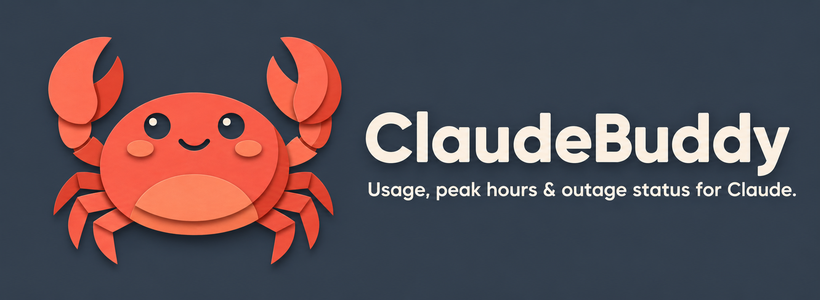
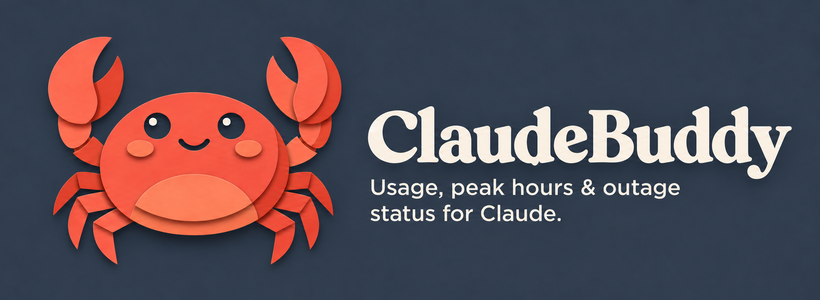
Refine promo typography with warm editorial lettering and refresh handoff

Changed region(s): [[0.4268, 0.36, 0.9756, 0.75], [0.1829, 0.3, 0.2439, 0.33]]

diff --git a/docs/release/policy-audit.md b/docs/release/policy-audit.md
@@ -26,11 +26,11 @@ Removed unused web_accessible_resources entry for timezone JSON: only the popup 
 
 [Single purpose](https://developer.chrome.com/docs/webstore/program-policies/quality-guidelines): quota and service availability for Claude form one narrow decision-support purpose. [Branding/IP](https://developer.chrome.com/docs/webstore/program-policies/impersonation-and-intellectual-property): independent product name and explicit non-affiliation, no official/endorsed claims, rankings or fake browser warnings. The user-selected coral paper-cut crab on dark slate is exported at true 16/48/128 sizes for extension management and Store branding. Its external generation provenance is not recorded. The toolbar uses the original circular usage indicators. No Anthropic logo is used in prepared assets.
 
-No bundled third-party library, font or imported third-party image/code notice was identified in runtime sources. The mascot was generated with the built-in imagegen tool; its source and prompts are recorded in assets/branding, outside the runtime ZIP. PeakClaude inspiration credit remains in README; no copied PeakClaude code was identified in this local review. Attribution does not establish ownership. No repository-wide LICENSE/COPYING exists; actual ownership and the publisher's licence choice remain owner decisions in 06, not fabricated permission to relicense. There is no applicable third-party runtime notice to add based on this local evidence.
+No bundled third-party library, font or code notice was identified in runtime sources. The current mascot is user-supplied; its external generation provenance is not recorded. Matching promotional images were generated with built-in imagegen, with exact prompts and sources recorded in assets/branding outside the runtime ZIP. PeakClaude inspiration credit remains in README; no copied PeakClaude code was identified in this local review. Attribution does not establish ownership. No repository-wide LICENSE/COPYING exists; actual ownership and the publisher's licence choice remain owner decisions in 06, not fabricated permission to relicense. No additional runtime notice was identified from the available local evidence.
 
 ## Listing and package
 
-[Listing fields](https://developer.chrome.com/docs/webstore/cws-dashboard-listing) and [image requirements](https://developer.chrome.com/docs/webstore/images): prepared title/manifest description, detailed description, English/productivity recommendation, true 128px PNG icon, and three 1280 × 800 PNG screenshots. Required icon and screenshot assets supplied; optional promotional tiles/video intentionally omitted. Screenshots show extracted production UI with safe samples and no lab controls. [Reviewer instructions](https://developer.chrome.com/docs/webstore/cws-dashboard-test-instructions) explain access/plan/event limits; no credentials invented.
+[Listing fields](https://developer.chrome.com/docs/webstore/cws-dashboard-listing) and [image requirements](https://developer.chrome.com/docs/webstore/images): prepared title/manifest description, detailed description, English/productivity recommendation, true 128px PNG icon, and three 1280 × 800 PNG screenshots. Required icon and screenshot assets are supplied. Matching optional marquee/tile and project promo exports were added on 26 October; no video was created. Screenshots show extracted production UI with safe samples and no lab controls. [Reviewer instructions](https://developer.chrome.com/docs/webstore/cws-dashboard-test-instructions) explain access/plan/event limits; no credentials invented.
 
 [Package preparation](https://developer.chrome.com/docs/webstore/prepare): explicit 30-file runtime allowlist, manifest root, no tests/labs/tickets/secrets/screenshots/Git content. Source/ZIP/extraction equality and hashes are recorded. Final publication is not implied.
 

diff --git a/.scratch/account-overview/05-release/HANDOFF.md b/.scratch/account-overview/05-release/HANDOFF.md
@@ -23,4 +23,10 @@ If QA or an owner decision changes runtime contents, return to 05: fix sources, 
 
 User approved the name and a friendly, warm, crisp crab with cute eyes. See [branding brief/proof](../../claudebuddy-branding/brief.md) and [source/prompt notes](../../../assets/branding/README.md). Current screenshots and active ZIP are ClaudeBuddy. The runtime allowlist has 30 files, including 12 packaged quota-color circle PNGs. The user subsequently clarified that the crab belongs only on the extension management page and Web Store listing. Toolbar indicators, including the manifest default, are plain circles. The rebrand reran all 64 Node tests and the 26 encrypted-popup checks; unaffected layout evidence from ticket 05 remains reused. Internal storage/key/bridge identifiers remain intentionally compatible.
 
-Branding [Standards/Spec review](../../claudebuddy-branding/review.md) covers the initial rebrand. The toolbar correction is documented [separately](../../claudebuddy-branding/toolbar-correction.md), with native-size proof and current validation. Current runtime source is d9f9066; SHA256SUMS/package.json identify its ZIP. All 64 Node tests pass for the correction; the 12 circle assets and manifest role separation were checked, and the rebuilt ZIP/extraction exactly match source. Earlier browser evidence is reused; no new live browser run is claimed for this asset correction.
+Branding [Standards/Spec review](../../claudebuddy-branding/review.md) covers the initial rebrand. The toolbar correction is documented [separately](../../claudebuddy-branding/toolbar-correction.md), with native-size proof and validation. The user selected a new logo on 26 October; see the update below. SHA256SUMS/package.json identify the current ZIP. Earlier browser assertion evidence is reused.
+
+## Selected logo and promo refresh — 2026-10-26
+
+The exact user-supplied coral paper-cut crab on dark slate replaces the prior flat mascot. Extension management/Store icons are resized exports; circular toolbar assets and action defaults remain unchanged. Four matching promos and three production-fixture listing screenshots are refreshed. [Asset links](../../../docs/release/store-listing.md), [source and exact imagegen prompts](../../../assets/branding/README.md), [scope/verification/review](../../claudebuddy-branding/selected-logo.md). Ignored local Web Store copies are also updated; use the tracked release assets linked above for handoff.
+
[1 lines of base64/hex data omitted]

diff --git a/.scratch/claudebuddy-branding/selected-logo.md b/.scratch/claudebuddy-branding/selected-logo.md
@@ -8,10 +8,14 @@ Use the exact supplied image as the tracked brand master and resize it for 16/48
 
 Use built-in imagegen with the selected logo as the reference for four promotional compositions. Save final artwork in the existing image paths and in tracked release assets; export the existing pixel dimensions. Record prompts and provenance. Update app context/branding docs and rebuild the exact release ZIP. Source/ZIP verification and appropriate existing tests must pass. No Store upload or signed-in QA is part of this change.
 
+Typography amendment: the user found the initial promo lettering generic. Refine all four promo compositions with a warm editorial serif wordmark and quieter humanist sans-serif feature copy, with better hierarchy, spacing and margins. Preserve the selected logo and circular toolbar assets. This concerns promotional typography; no popup font change is requested.
+
 ## Validation
 
 - Supplied logo and tracked brand master are byte-identical. Icon exports are 16/48/128px, with the selected dark slate background retained.
 - All 12 toolbar PNGs match the baseline byte for byte; manifest action defaults and service worker are unchanged.
-- Four final promo exports were inspected at target size for character consistency, complete claws, legible accurate copy and margins. Exact prompts and tracked high-resolution sources are in `assets/branding/promo-prompts.json`.
+- Four final promo exports were inspected at target size for character consistency, complete claws, legible accurate copy and margins, including the user's later typography refinement. Current prompts and high-resolution sources are recorded in `assets/branding/typography-prompts.json`; initial composition prompts/history are in `promo-prompts.json`.
 - Three 1280 × 800 RGB listing screenshots were recaptured with CUA from the extracted-production sample fixture. Comparison and Forget/Undo states were verified; these are synthetic sample renders, not signed-in QA or a rerun of prior browser assertion suites.
 - Full Node suite: 64 tests passed, zero failures. No JS/typechecking configuration change.
+
[1 lines of base64/hex data omitted]

diff --git a/assets/branding/README.md b/assets/branding/README.md
@@ -6,7 +6,7 @@ The current [claudebuddy-crab.png](claudebuddy-crab.png) is the exact user-selec
 
 ## Current promotional artwork
 
-Four matching compositions were generated with built-in image_gen using the selected logo as reference. [Exact prompts](promo-prompts.json) record the reference, tracked high-resolution sources in `promo-sources/`, output paths and dimensions. The finished exports are in the [release assets](../../.scratch/account-overview/05-release/assets/): marquee 1400 × 560, Store tile 440 × 280, project banner 820 × 300 and compact tile 440 × 254. Copies replace the existing files under `images/webstore_images/` and `images/promo_tile/`. Generation defines the artwork; Pillow only exports the final dimensions without cropping. Original source files remain available.
+Four matching compositions were generated with built-in image_gen using the selected logo as reference. The user then requested less generic typography: the final artwork pairs a warm editorial serif wordmark with quieter sans-serif feature copy. [Current typography-edit prompts](typography-prompts.json) record the edit targets, tracked high-resolution sources in `promo-sources/`, output paths and dimensions. [Initial prompts](promo-prompts.json) retain the first composition history at revision a397d2a. The finished exports are in the [release assets](../../.scratch/account-overview/05-release/assets/): marquee 1400 × 560, Store tile 440 × 280, project banner 820 × 300 and compact tile 440 × 254. Copies replace the existing files under `images/webstore_images/` and `images/promo_tile/`. Generation defines the artwork; Pillow only exports the final dimensions without cropping. Original generated versions remain available in Git history and the tool's image library.
 
 The three listing screenshots were recaptured from the existing extracted-production sample fixture with the new logo header. Their popup pixels are rendered application UI, not generated artwork. Current copies use `01-usage.png`, `02-compare.png`, and `03-forget.png` under `images/webstore_images/scrshots/`; older differently named JPEGs there are historical exports and are not the current listing set.
 

diff --git a/.scratch/account-overview/05-release/verification.md b/.scratch/account-overview/05-release/verification.md
@@ -55,3 +55,7 @@ The user subsequently approved the ClaudeBuddy name and refined the crab toward 
 ## Circular toolbar correction — 2026-10-24
 
 Per the user's clarification, the crab logo is limited to extension management and Store branding. The toolbar uses antialiased circles with the original 8% inset and green/orange/red palette, including its manifest default. All 64 Node tests pass. All 12 PNGs were checked for dimensions, palette, transparent corners and horizontal/vertical symmetry; manifest branding/default separation and a native-size light/dark proof were checked. The release builder verified the 30-file allowlist, extracted syntax, source/ZIP/extraction equality and updated hashes. No service-worker logic changed. Prior browser evidence is reused, not rerun. See [correction and proof](../../claudebuddy-branding/toolbar-correction.md).
+
+## User-selected logo and promo refresh — 2026-10-26
+
+The exact attached paper-cut crab source now supplies the extension/Store logo. Verified source/master equality, 16/48/128px icon exports and unchanged toolbar PNGs/defaults. Four reference-based imagegen promos were inspected after export at 1400 × 560, 440 × 280, 820 × 300 and 440 × 254. Three 1280 × 800 RGB listing screenshots were recaptured with CUA from the extracted-production sample fixture; logo headers, comparison and Forget/Undo states were inspected. All 64 Node tests pass. The builder verified the 30-file allowlist, extracted syntax and source/ZIP/extraction equality. Current source revision and hashes are in package.json. Earlier browser assertion suites are reused evidence, not newly rerun or real signed-in verification. See [scope, prompts and review](../../claudebuddy-branding/selected-logo.md).

diff --git a/docs/ClaudeBuddy-App-Context.md b/docs/ClaudeBuddy-App-Context.md
@@ -122,7 +122,7 @@ The brand should feel like a small companion looking out for the user while they
 
 The selected logo is a **friendly coral crab in a layered paper-cut style on a dark slate background**. It has a rounded body, raised curved claws, folded paper legs, large dark eyes with cream catchlights, coral cheek ovals, and a gentle smile. Soft shadows and subtle paper texture give the shapes depth. Preserve this character's warm expression, silhouette and cute eyes when making related visuals. “Sharper” means precise shapes, rather than aggressive or spiky anatomy.
 
-Warm coral, dark slate and small cream eye highlights define the selected treatment. Promotional images should use this same crab and visual style, with the ClaudeBuddy name and accurate feature copy.
+Warm coral, dark slate and small cream eye highlights define the selected treatment. Promotional images use this same crab and visual style, a warm editorial serif for the ClaudeBuddy name, and quieter sans-serif feature copy. Keep the copy accurate and the hierarchy clear.
 
 The logo needs to work as:
 
